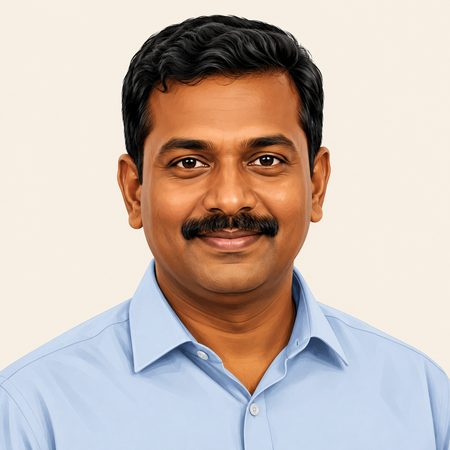
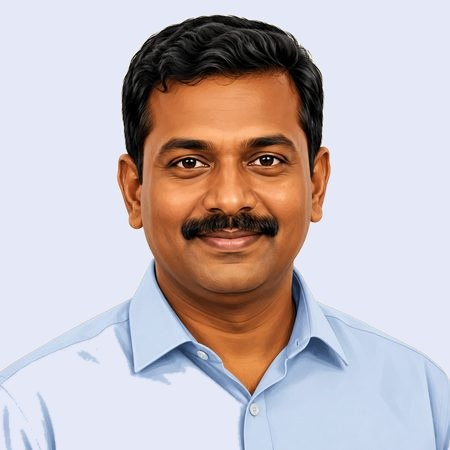
Sign-in fits one screen, on brand blue, with the faces tinted apart
Three things from looking at it on the device.

It scrolled. The artwork was a fixed 47% of the window, so on a 359dp-wide phone
the form pushed past the bottom and the top faces went off-screen. The ScrollView
is gone: the page is a flex column, the artwork takes whatever is left after the
form and measures it rather than assuming, and the keyboard's height comes off
the artwork instead of the fields. Below a 210dp floor it clips from the bottom
rather than squashing the arrangement, so the circles stay round.

The ground is now the deep brand blue, with everything over it in white at graded
opacities. Both palettes live in SKINS and one constant switches between them, so
comparing the pale-blue version again costs a word. The accent dots had to become
skin-aware on the way: a brand-blue dot on a brand-blue page is invisible.

The nine photos shared one flat cream backdrop, which read as a single beige blob
behind nine heads. Each now has its own light tint, keyed by flood-filling from
the corners so hair and shoulders survive where a plain colour-distance key would
have eaten into them.

Circle edges were visibly stepped: Android antialiases a rounded Image badly. The
white rim is now padding on the parent and the clipping happens on a plain View,
which comes out clean.

diff --git a/mobile/src/screens/SignInScreen.js b/mobile/src/screens/SignInScreen.js
@@ -1,25 +1,70 @@
 import React, { useEffect, useRef, useState } from "react";
-import { View, Text, TextInput, ScrollView, StyleSheet, Platform, Pressable, Keyboard, Animated, Easing, useWindowDimensions } from "react-native";
+import { View, Text, TextInput, StyleSheet, Platform, Pressable, Keyboard, Animated, Easing } from "react-native";
 import { SafeAreaView } from "react-native-safe-area-context";
 import { StatusBar } from "expo-status-bar";
 import { useAuth } from "../AuthContext";
 import { Feather } from "../components/ui";
 import { AsterLogo } from "../components/Logo";
 import FaceConstellation from "../components/FaceConstellation";
-import { theme, space } from "../theme";
+import { space } from "../theme";
 
 // The screen leads with people, not with the brand: nine faces on slow orbits
 // over a pale ground, with the form sitting underneath on the same page. The old
 // version was edge-to-edge brand blue, which looked confident but said nothing
 // about what the product is for.
-const PAGE = "#F4F7FC";
-const INK = "#0E1220";
-const INK_DIM = "#6B7385";
-const INK_FAINT = "#9AA2B4";
-const RULE = "#D5DCEA";
-const RULE_ON = "#0B2AE0";
-const SURFACE_OFF = "#DFE5F0"; // disabled button fill
-const DANGER = "#C0233A";
+// Two grounds for the same screen. Flip SKIN to compare: "sky" is a pale blue
+// page with dark type, "brand" is the deep brand blue with everything laid over
+// it in white at graded opacities.
+const SKIN = "brand";
+
+const SKINS = {
+  sky: {
+    page: "#E4ECFA",
+    ink: "#0E1220",
+    inkDim: "#6B7385",
+    inkFaint: "#9AA2B4",
+    rule: "#BFCFEC",
+    ruleOn: "#0B2AE0",
+    surfaceOff: "#CEDBF3",
+    danger: "#C0233A",
+    errorBg: "#FBE3E7",
+    ring: "rgba(255,255,255,0.9)",
+    dotA: "#0B2AE0",
+    dotB: "#93A7FF",
+    logo: "#0B2AE0",
+    ctaBg: "#0B2AE0",
+    ctaTxt: "#FFFFFF",
+    bar: "dark",
+  },
+  brand: {
+    page: "#0B2AE0",
+    ink: "#FFFFFF",
+    inkDim: "rgba(255,255,255,0.74)",
+    inkFaint: "rgba(255,255,255,0.5)",
+    rule: "rgba(255,255,255,0.3)",
+    ruleOn: "#FFFFFF",
+    surfaceOff: "rgba(255,255,255,0.14)",
+    danger: "#FFC2C6",
+    errorBg: "rgba(0,0,0,0.22)",
+    ring: "rgba(255,255,255,0.26)",
+    dotA: "#FFFFFF",
+    dotB: "#7E97FF",
+    logo: "#FFFFFF",
+    ctaBg: "#FFFFFF",
+    ctaTxt: "#0B2AE0",
+    bar: "light",
+  },
+};
+
+const S = SKINS[SKIN];
+const PAGE = S.page;
+const INK = S.ink;
+const INK_DIM = S.inkDim;
+const INK_FAINT = S.inkFaint;
+const RULE = S.rule;
+const RULE_ON = S.ruleOn;
+const SURFACE_OFF = S.surfaceOff;
+const DANGER = S.danger;
 
 // Android edge-to-edge doesn't resize the view for the keyboard, so track its
 // height and lift the scroll content above it manually.
@@ -82,8 +127,6 @@ function Field({ label, icon, inputRef, invalid, children }) {
 export default function SignInScreen() {
   const { signIn } = useAuth();
   const kb = useKeyboardHeight();
-  const { height: winH } = useWindowDimensions();
-  const scrollRef = useRef(null);
   const emailRef = useRef(null);
   const passwordRef = useRef(null);
   const [email, setEmail] = useState("");
@@ -103,40 +146,34 @@ export default function SignInScreen() {
 
   const ready = !!email && !!password;
 
-  // The artwork gives up its height to the keyboard rather than pushing the
-  // fields off-screen. Height can't run on the native driver, but this animates
-  // once per keyboard event, not per frame of typing.
-  const artFull = Math.round(winH * 0.47);
-  const artH = useRef(new Animated.Value(artFull)).current;
-  useEffect(() => {
-    Animated.timing(artH, {
-      toValue: kb > 0 ? Math.round(artFull * 0.34) : artFull,
-      duration: 260, easing: Easing.out(Easing.cubic), useNativeDriver: false,
-    }).start();
-  }, [kb, artFull, artH]);
+  // The artwork takes whatever height is left after the form, measured rather
+  // than assumed, so the screen fits exactly once on any device and never
+  // scrolls. Below the floor the box clips from the bottom instead of squashing
+  // the arrangement, which keeps the faces circular and evenly spread.
+  const [artH, setArtH] = useState(0);
+  const ART_FLOOR = 210;
 
   return (
     <View style={{ flex: 1, backgroundColor: PAGE }}>
-      <StatusBar style="dark" />
+      <StatusBar style={S.bar} />
       <SafeAreaView style={{ flex: 1 }} edges={["top", "bottom"]}>
-        <ScrollView
-          ref={scrollRef}
-          contentContainerStyle={[styles.scroll, kb > 0 && { paddingBottom: kb + space(4) }]}
-          keyboardShouldPersistTaps="handled"
-          keyboardDismissMode="interactive"
-          showsVerticalScrollIndicator={false}
-        >
+        {/* Android edge-to-edge doesn't resize for the keyboard, so the padding
+            does it, and the flexible artwork above absorbs the loss. */}
+        <View style={[styles.page, kb > 0 && { paddingBottom: kb }]}>
           {/* Bleeds the full width; the form below keeps the page margin. */}
-          <Animated.View style={{ height: artH, overflow: "hidden", marginHorizontal: -space(7) }}>
-            <FaceConstellation height={artFull} />
-          </Animated.View>
+          <View
+            style={styles.art}
+            onLayout={(e) => setArtH(Math.round(e.nativeEvent.layout.height))}
+          >
+            {artH > 0 ? <FaceConstellation height={Math.max(artH, ART_FLOOR)} ring={S.ring} dotA={S.dotA} dotB={S.dotB} /> : null}
+          </View>
 
           <View style={styles.form}>
-            <Rise delay={220}><AsterLogo width={116} color={theme.brand} /></Rise>
+            <Rise delay={220}><AsterLogo width={116} color={S.logo} /></Rise>
             <Rise delay={290}><Text style={styles.h1}>Welcome back.</Text></Rise>
             <Rise delay={350}><Text style={styles.sub}>Hiring, all in one tap.</Text></Rise>
 
-            <Rise delay={420} style={{ marginTop: space(8) }}>
+            <Rise delay={420} style={{ marginTop: space(6) }}>
               <Field label="WORK EMAIL" icon="mail" inputRef={emailRef} invalid={!!error}>
                 {({ onFocus, onBlur }) => (
                   <TextInput
@@ -157,7 +194,7 @@ export default function SignInScreen() {
                 )}
               </Field>
 
-              <View style={{ marginTop: space(6) }}>
+              <View style={{ marginTop: space(5) }}>
                 <Field label="PASSWORD" icon="lock" inputRef={passwordRef} invalid={!!error}>
                   {({ onFocus, onBlur }) => (
                     <>
@@ -171,7 +208,7 @@ export default function SignInScreen() {
                         selectionColor={RULE_ON}
                         value={password}
                         onChangeText={(v) => { setPassword(v); if (error) setError(""); }}
-                        onFocus={() => { onFocus(); setTimeout(() => scrollRef.current?.scrollToEnd({ animated: true }), 120); }}
+                        onFocus={onFocus}
                         onBlur={onBlur}
                         onSubmitEditing={onSubmit}
                         accessibilityLabel="Password"
@@ -214,22 +251,25 @@ export default function SignInScreen() {
                 <Text style={[styles.ctaTxt, !ready && { color: INK_FAINT }]}>
                   {busy ? "Signing in…" : "Sign in"}
                 </Text>
-                {!busy ? <Feather name="arrow-right" size={18} color={ready ? "#FFFFFF" : INK_FAINT} /> : null}
+                {!busy ? <Feather name="arrow-right" size={18} color={ready ? S.ctaTxt : INK_FAINT} /> : null}
               </Pressable>
             </Rise>
           </View>
-        </ScrollView>
+        </View>
       </SafeAreaView>
     </View>
   );
 }
 
 const styles = StyleSheet.create({
-  scroll: { flexGrow: 1, paddingHorizontal: space(7), paddingBottom: space(10) },
-  form: { marginTop: space(4) },
+  page: { flex: 1, paddingHorizontal: space(7), paddingBottom: space(4) },
+  // flexShrink lets the artwork give up height to the keyboard; minHeight 0 is
+  // what actually allows a flex child to shrink below its content.
+  art: { flex: 1, minHeight: 0, overflow: "hidden", marginHorizontal: -space(7) },
+  form: { flexShrink: 0, paddingTop: space(2) },
   h1: {
     fontFamily: "PlusJakartaSans_700Bold", fontSize: 29, lineHeight: 35, letterSpacing: -0.8,
-    color: INK, marginTop: space(4),
+    color: INK, marginTop: space(3),
   },
   sub: { fontFamily: "Inter_400Regular", fontSize: 15.5, color: INK_DIM, marginTop: space(2) },
   field: { paddingBottom: 10 },
@@ -239,18 +279,18 @@ const styles = StyleSheet.create({
   rule: { marginTop: 10, borderRadius: 1 },
   errorRow: {
     flexDirection: "row", alignItems: "flex-start",
-    backgroundColor: "#FDECEF", borderRadius: 14, padding: 12, marginTop: space(6),
+    backgroundColor: S.errorBg, borderRadius: 14, padding: 12, marginTop: space(6),
   },
   errorTxt: { fontFamily: "Inter_400Regular", fontSize: 13.5, lineHeight: 19, color: DANGER, marginLeft: 8, flex: 1 },
   cta: {
     flexDirection: "row", alignItems: "center", justifyContent: "center", gap: 10,
-    height: 58, borderRadius: 18, marginTop: space(9),
+    height: 56, borderRadius: 18, marginTop: space(6),
   },
   ctaOn: {
-    backgroundColor: theme.brand,
-    shadowColor: "#0B2AE0", shadowOpacity: 0.32, shadowRadius: 20,
+    backgroundColor: S.ctaBg,
+    shadowColor: "#050B3D", shadowOpacity: 0.32, shadowRadius: 20,
     shadowOffset: { width: 0, height: 10 }, elevation: 8,
   },
   ctaOff: { backgroundColor: SURFACE_OFF },
-  ctaTxt: { fontFamily: "Inter_700Bold", fontSize: 16.5, color: "#FFFFFF" },
+  ctaTxt: { fontFamily: "Inter_700Bold", fontSize: 16.5, color: S.ctaTxt },
 });

diff --git a/mobile/src/components/FaceConstellation.js b/mobile/src/components/FaceConstellation.js
@@ -33,15 +33,17 @@ const LAYOUT = [
 
 const BRAND = "#0B2AE0";
 const PERI = "#93A7FF";
-const RING = "#DCE4F2";
+const RING_DEFAULT = "rgba(255,255,255,0.9)";
 
+// `a` is the strong dot, `b` the soft one. Which actual colours those are comes
+// from the skin: on a blue ground a brand-blue dot is invisible.
 const DOTS = [
-  { x: 0.455, y: 0.185, d: 0.032, c: BRAND },
-  { x: 0.900, y: 0.095, d: 0.022, c: BRAND },
-  { x: 0.035, y: 0.500, d: 0.028, c: PERI },
-  { x: 0.420, y: 0.875, d: 0.052, c: BRAND },
-  { x: 0.885, y: 0.815, d: 0.040, c: PERI },
-  { x: 0.630, y: 0.415, d: 0.016, c: BRAND },
+  { x: 0.455, y: 0.185, d: 0.032, t: "a" },
+  { x: 0.900, y: 0.095, d: 0.022, t: "a" },
+  { x: 0.035, y: 0.500, d: 0.028, t: "b" },
+  { x: 0.420, y: 0.875, d: 0.052, t: "a" },
+  { x: 0.885, y: 0.815, d: 0.040, t: "b" },
+  { x: 0.630, y: 0.415, d: 0.016, t: "a" },
 ];
 
 const RING_RADII = [0.28, 0.43, 0.59, 0.76];   // fractions of box width
@@ -71,12 +73,17 @@ function Face({ source, size, left, top, delay, still }) {
         },
       ]}
     >
-      <Image source={source} style={{ width: size, height: size, borderRadius: size / 2 }} />
+      {/* Android antialiases a rounded Image poorly on its own, so the ring is a
+          separate clipping View and the image inside is left square. Without
+          this the circle edge comes out visibly stepped. */}
+      <View style={{ width: size - 6, height: size - 6, borderRadius: (size - 6) / 2, overflow: "hidden" }}>
+        <Image source={source} style={{ width: size - 6, height: size - 6 }} resizeMode="cover" fadeDuration={0} />
+      </View>
     </Animated.View>
   );
 }
 
-export default function FaceConstellation({ height, style }) {
+export default function FaceConstellation({ height, style, ring = RING_DEFAULT, dotA = BRAND, dotB = PERI }) {
   const { width } = useWindowDimensions();
   const [still, setStill] = React.useState(false);
 
@@ -126,7 +133,7 @@ export default function FaceConstellation({ height, style }) {
               style={{
                 position: "absolute",
                 width: size, height: size, borderRadius: size / 2,
-                borderWidth: 1, borderColor: RING,
+                borderWidth: 1, borderColor: ring,
                 left: px(RING_CX) - size / 2,
                 top: height * RING_CY - size / 2,
               }}
@@ -142,7 +149,7 @@ export default function FaceConstellation({ height, style }) {
             key={n}
             style={{
               position: "absolute", width: size, height: size, borderRadius: size / 2,
-              backgroundColor: d.c, left: px(d.x) - size / 2, top: height * d.y - size / 2,
+              backgroundColor: d.t === "a" ? dotA : dotB, left: px(d.x) - size / 2, top: height * d.y - size / 2,
             }}
           />
         );
@@ -171,8 +178,7 @@ const styles = StyleSheet.create({
   // the group reading as a flat collage.
   chip: {
     position: "absolute",
-    borderWidth: 3,
-    borderColor: "#FFFFFF",
+    padding: 3,
     backgroundColor: "#FFFFFF",
     shadowColor: "#1B2559",
     shadowOpacity: 0.16,
